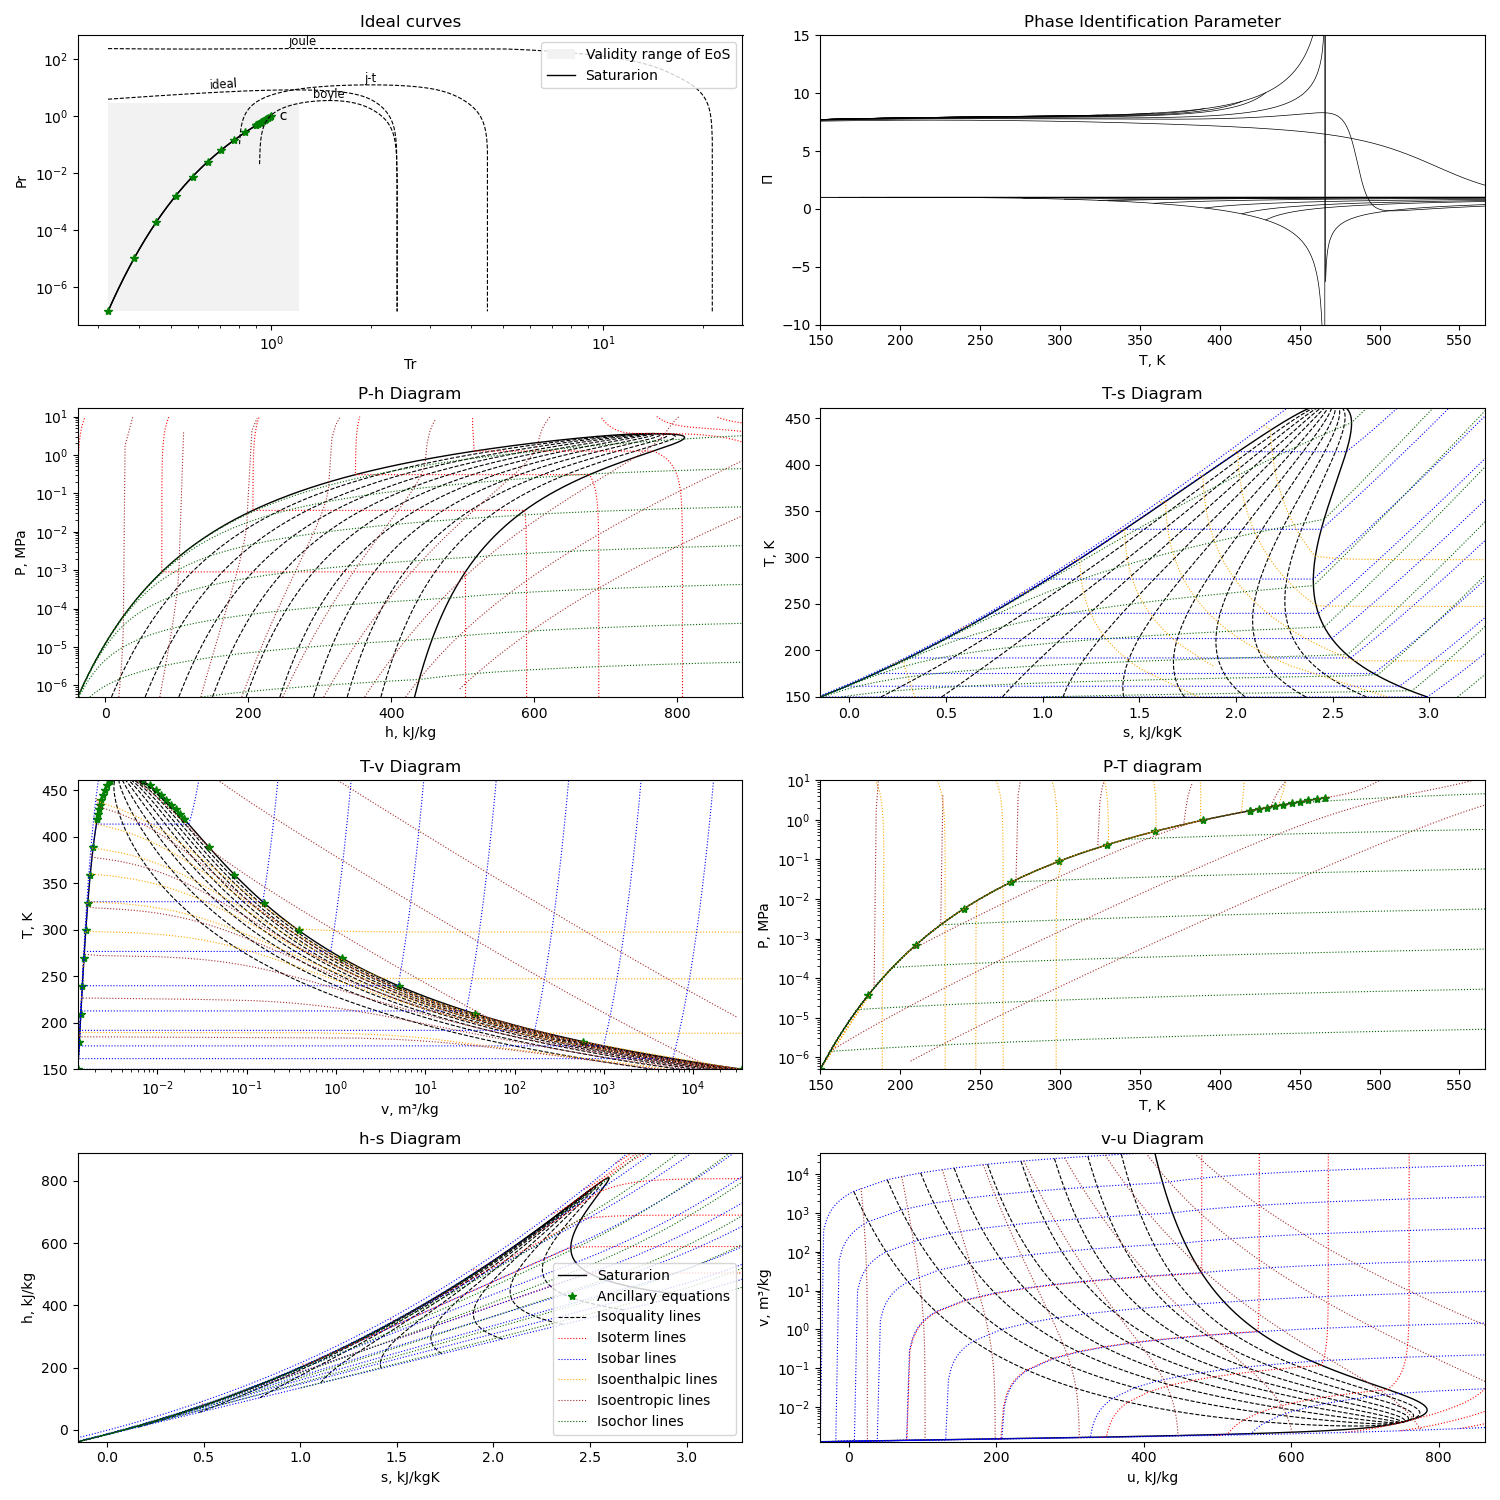
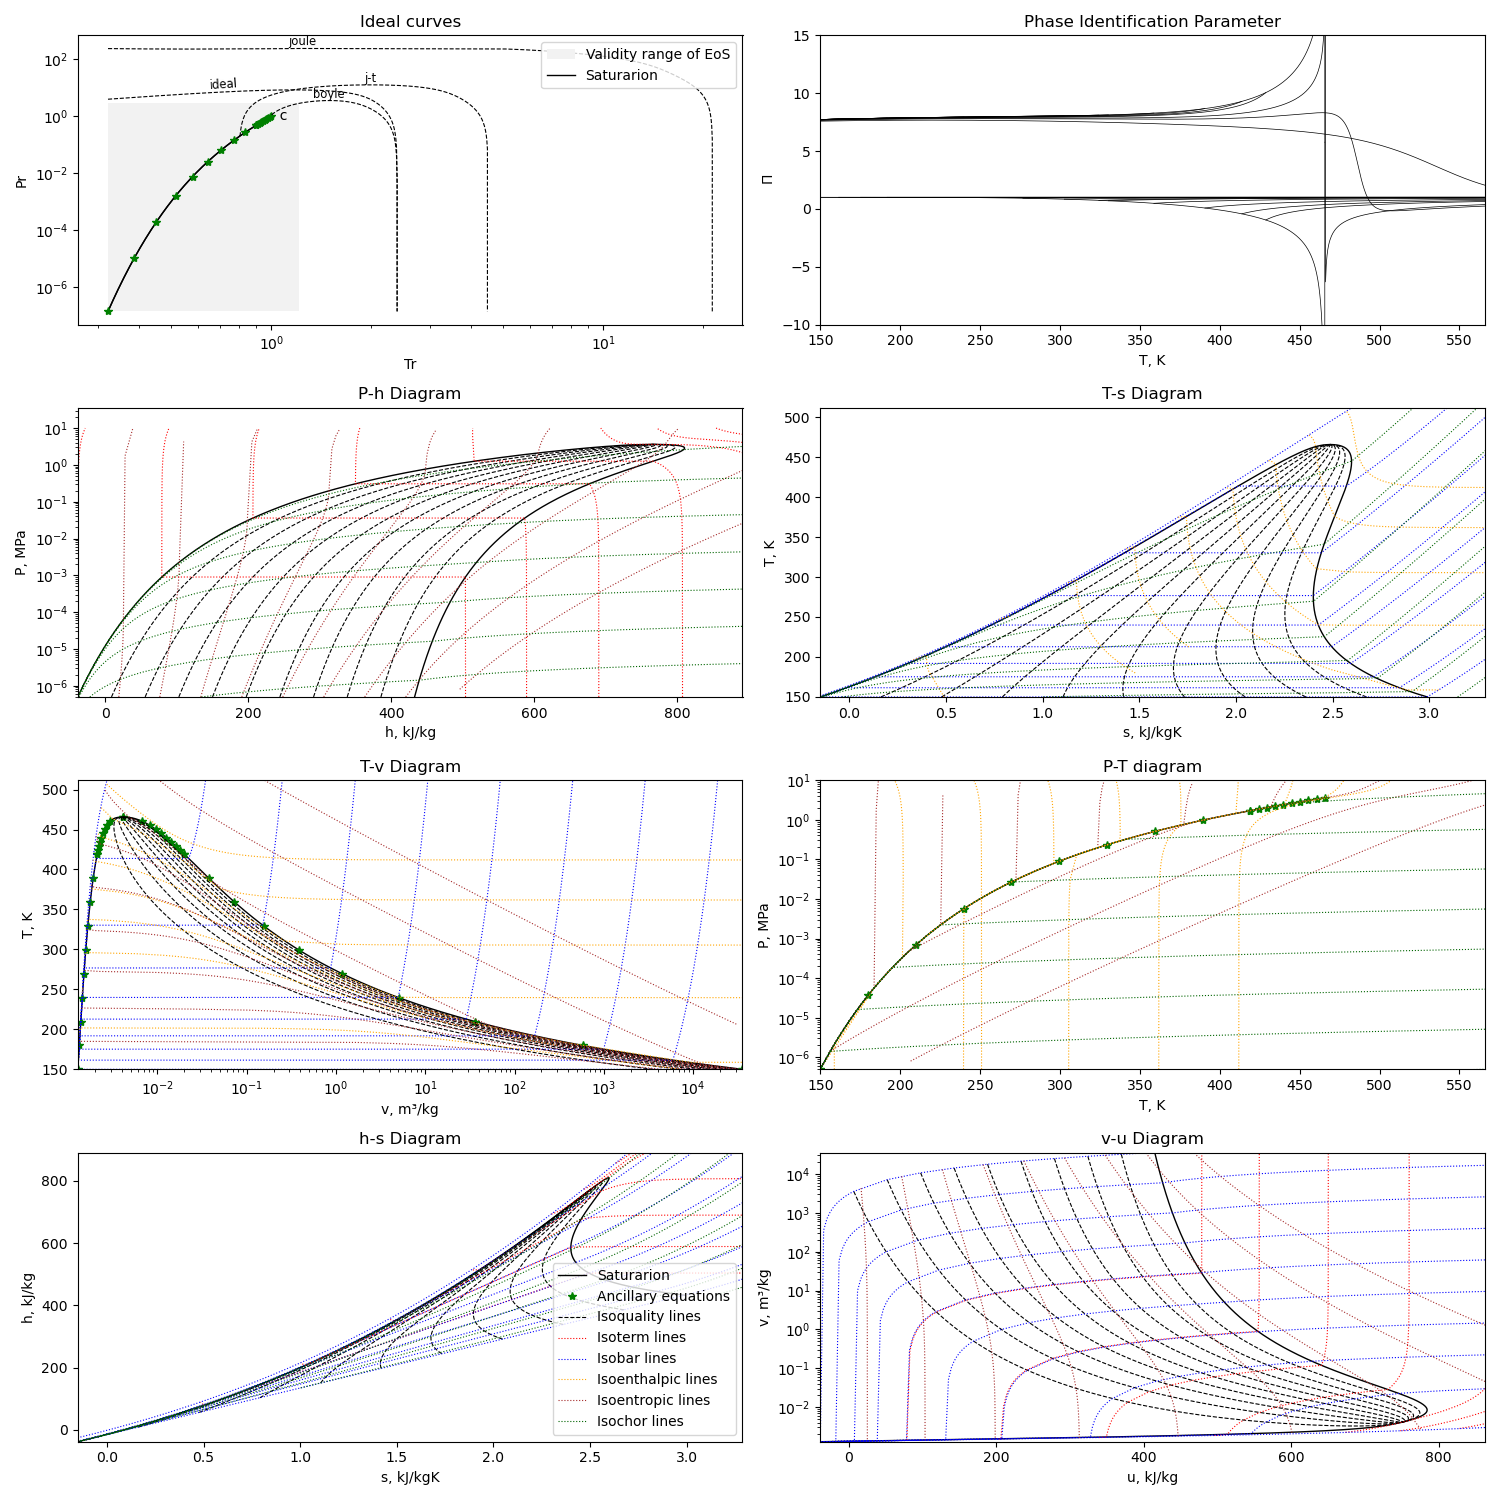
Add Acetylene mEoS, transpor properties and documentation image

diff --git a/lib/mEoS/Acetylene.py b/lib/mEoS/Acetylene.py
@@ -1,0 +1,142 @@
+#!/usr/bin/python3
+# -*- coding: utf-8 -*-
+
+'''Pychemqt, Chemical Engineering Process simulator
+Copyright (C) 2009-2023, Juan José Gómez Romera <jjgomera@gmail.com>
+
+This program is free software: you can redistribute it and/or modify
+it under the terms of the GNU General Public License as published by
+the Free Software Foundation, either version 3 of the License, or
+(at your option) any later version.
+
+This program is distributed in the hope that it will be useful,
+but WITHOUT ANY WARRANTY; without even the implied warranty of
+MERCHANTABILITY or FITNESS FOR A PARTICULAR PURPOSE.  See the
+GNU General Public License for more details.
+
+You should have received a copy of the GNU General Public License
+along with this program.  If not, see <http://www.gnu.org/licenses/>.'''
+
+
+from unittest import TestCase
+
+from lib import unidades
+from lib.meos import MEoS
+from lib.mEoS import C3
+
+
+class Acetylene(MEoS):
+    """Multiparameter equation of state for """
+    name = "Acetylene"
+    CASNumber = "74-86-2"
+    formula = "CH≅CH"
+    synonym = ""
+    _refPropName = ""
+    _coolPropName = ""
+    rhoc = unidades.Density(229.9091824)
+    Tc = unidades.Temperature(308.3)
+    Pc = unidades.Pressure(5988.2, "kPa")
+    M = 26.03728  # g/mol
+    Tt = unidades.Temperature(191.75)
+    Tb = unidades.Temperature(189)
+    f_acent = 0.178
+    momentoDipolar = unidades.DipoleMoment(0, "Debye")
+    id = 65
+
+    CP1 = {"ao": 3.5,
+           "an": [], "pow": [],
+           "ao_exp": [1.8374, 3.4338, 2.6089],
+           "exp": [610.0, 1428.0, 6857.0]}
+
+    refprop = {
+        "__type__": "Helmholtz",
+        "__name__": "Helmholtz equation of state for 1,3-butadiene (2022)",
+        "__doi__": {
+            "autor": "Huber, M.L., Lemmon, E.W., Bell, I.H., McLinden, M.O.",
+            "title": "The NIST REFPROP Database for Highly Accurate Properties"
+                     " of Industrially Importants Fluids",
+            "ref": "Ind. Eng. Chem. Res. 61(42) (2022) 15449-15472",
+            "doi": "10.1021/acs.iecr.2c01427"},
+
+        "R": 8.3144598,
+        "cp": CP1,
+        "ref": "IIR",
+
+        "Tmin": Tt, "Tmax": 526.0, "Pmax": 10000.0, "rhomax": 35.57,
+
+        "nr1": [0.8157856, -1.85265, -0.115457, 0.0938171, 6.405e-05],
+        "d1": [1.0, 1.0, 2.0, 3.0, 8.0],
+        "t1": [0.125, 1.125, 1.25, 0.25, 0.75],
+
+        "nr2": [0.2031037, 0.1417312, -0.1641216, 0.01495196, -0.014536],
+        "d2": [2.0, 3.0, 1.0, 4.0, 3.0],
+        "t2": [0.625, 2.0, 4.125, 4.125, 17.0],
+        "c2": [1.0, 1.0, 2.0, 2.0, 3.0],
+        "gamma2": [1]*5}
+
+    eq = (refprop, )
+
+    _surface = {
+        "__doi__": {"autor": "Huber, M.L.",
+                    "title": "Models for Viscosity, Thermal Conductivity, and "
+                             "Surface Tension of Selected Pure Fluids as "
+                             "Implemented in REFPROP v10.0",
+                    "ref": "NISTIR 8209",
+                    "doi": "10.6028/NIST.IR.8209"},
+        "sigma": [0.0615167], "exp": [1.19797]}
+
+    _vapor_Pressure = {
+        "eq": 3,
+        "n": [-7.2279, 3.8389, -6.5192, 7.0358, -6.3104],
+        "t": [1.0, 1.5, 2.1, 2.8, 3.6]}
+    _liquid_Density = {
+        "eq": 1,
+        "n": [1.4146, 1.4232, -0.22333, 0.14913, 2.8826],
+        "t": [0.267, 0.84, 1.74, 2.9, 10.0]}
+    _vapor_Density = {
+        "eq": 2,
+        "n": [-1.93926, -4.21026, -10.0508, -28.8004, -82.9808],
+        "t": [0.3, 0.883, 2.2, 4.75, 9.8]}
+
+    trnECS = {"__name__": "Huber (2018)",
+
+              "__doi__": {
+                  "autor": "Huber, M.L.",
+                  "title": "Models for Viscosity, Thermal Conductivity, and "
+                           "Surface Tension of Selected Pure Fluids as "
+                           "Implemented in REFPROP v10.0",
+                  "ref": "NISTIR 8209",
+                  "doi": "10.6028/NIST.IR.8209"},
+
+              "eq": "ecs",
+              "ref": C3,
+              "visco": "visco1",
+
+              "ek": 244.8, "sigma": 0.3914, "omega": 6,
+              "n_chapman": 26.692e-3, "Fc": 0.97,
+
+              "psi": [0.98], "psi_d": [0],
+              "fint": [6.46532e-4, 9.98935e-7, 1.22755e-10],
+              "fint_t": [0, 1, 2],
+              "chi": [0.9], "chi_d": [0],
+
+              "critical": 3,
+              "gnu": 0.63, "gamma": 1.239, "R0": 1.02,
+              "Xio": 0.166e-9, "gam0": 0.056, "qd": 0.47e-9, "Tcref": 1.5*Tc}
+
+    _viscosity = (trnECS, )
+    _thermal = (trnECS, )
+
+
+class Test(TestCase):
+    """Testing"""
+
+    def test_Huber(self):
+        """Table 7, pag 266"""
+        st = Acetylene(T=277.5, rhom=17.772)
+        self.assertEqual(round(st.mu.muPas, 5), 70.87286)
+        self.assertEqual(round(st.k.mWmK, 4), 105.9641)
+
+    def test_Surface(self):
+        """Table 10, pag 271"""
+        self.assertEqual(round(Acetylene(T=277.5, x=0.5).sigma, 7), 0.0038951)

diff --git a/lib/mEoS/__init__.py b/lib/mEoS/__init__.py
@@ -93,6 +93,7 @@ from lib.mEoS.Cis_2_butene import Cis_2_butene
 from lib.mEoS.Trans_2_butene import Trans_2_butene
 from lib.mEoS.Pentene_1 import Pentene_1
 from lib.mEoS.Hexene_1 import Hexene_1
+from lib.mEoS.Acetylene import Acetylene
 from lib.mEoS.Propyne import Propyne
 from lib.mEoS.Butyne_1 import Butyne_1
 from lib.mEoS.C1Oleate import C1Oleate
@@ -200,8 +201,8 @@ Naphthenes = [Cyclopropane, Cyclopentane, Cyclohexane, C1Cyclohexane,
               C3Cyclohexane]
 Alkenes = [Benzene, Toluene, oXylene, mXylene, pXylene, EthylBenzene,
            Ethylene, Propylene, Butene_1, Butadiene13, iButene, Cis_2_butene,
-           Trans_2_butene, Pentene_1, Hexene_1, Propyne, Butyne_1, C1Oleate,
-           C1Linolenate, C1Linoleate, C1Palmitate, C1Stearate]
+           Trans_2_butene, Pentene_1, Hexene_1, Acetylene, Propyne, Butyne_1,
+           C1Oleate, C1Linolenate, C1Linoleate, C1Palmitate, C1Stearate]
 Heteroatom = [Methanol, Ethanol, Acetone, EthyOxide, PropylenGlycol,
               AceticAcid, DME, DEE, DMC, NF3, SF6, HCl]
 CFCs = [R13I1, R11, R12, R13, R14, R21, R22, R23, R32, R40, R41, R113, R114,
